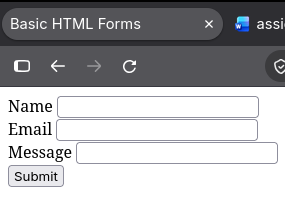
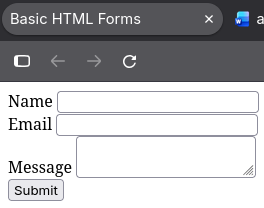
Part 1 Task 0

diff --git a/index.html b/index.html
@@ -3,6 +3,7 @@
 <head>
     <meta charset="UTF-8">
     <meta name="viewport" content="width=device-width, initial-scale=1.0">
+    <link rel="stylesheet" href="css/style.css">
     <title>Basic HTML Forms</title>
 </head>
 <body>
@@ -17,7 +18,7 @@
         </div>
         <div>
             <label>Message</label>
-            <input type="textarea">
+            <textarea></textarea>
         </div>
         <button type="submit">Submit</button>
     </form>
